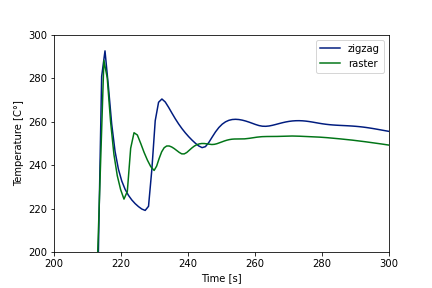
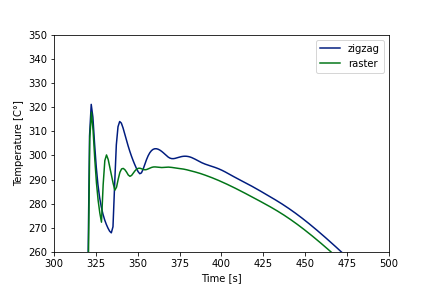
.

diff --git a/Abaqus/post_processing.py b/Abaqus/post_processing.py
@@ -70,9 +70,9 @@ def main():
     plt.ylabel('Temperature [C' + degree_sign + ']')
     plt.legend(['zigzag','raster'])
     axes = plt.gca()
-    axes.set_xlim([100,200])
-    axes.set_ylim([125,300])
-    plt.savefig('cornernode_layer2')
+    axes.set_xlim([300,500])
+    axes.set_ylim([260,350])
+    plt.savefig('cornernode_layer4')
     plt.show()
     
     
